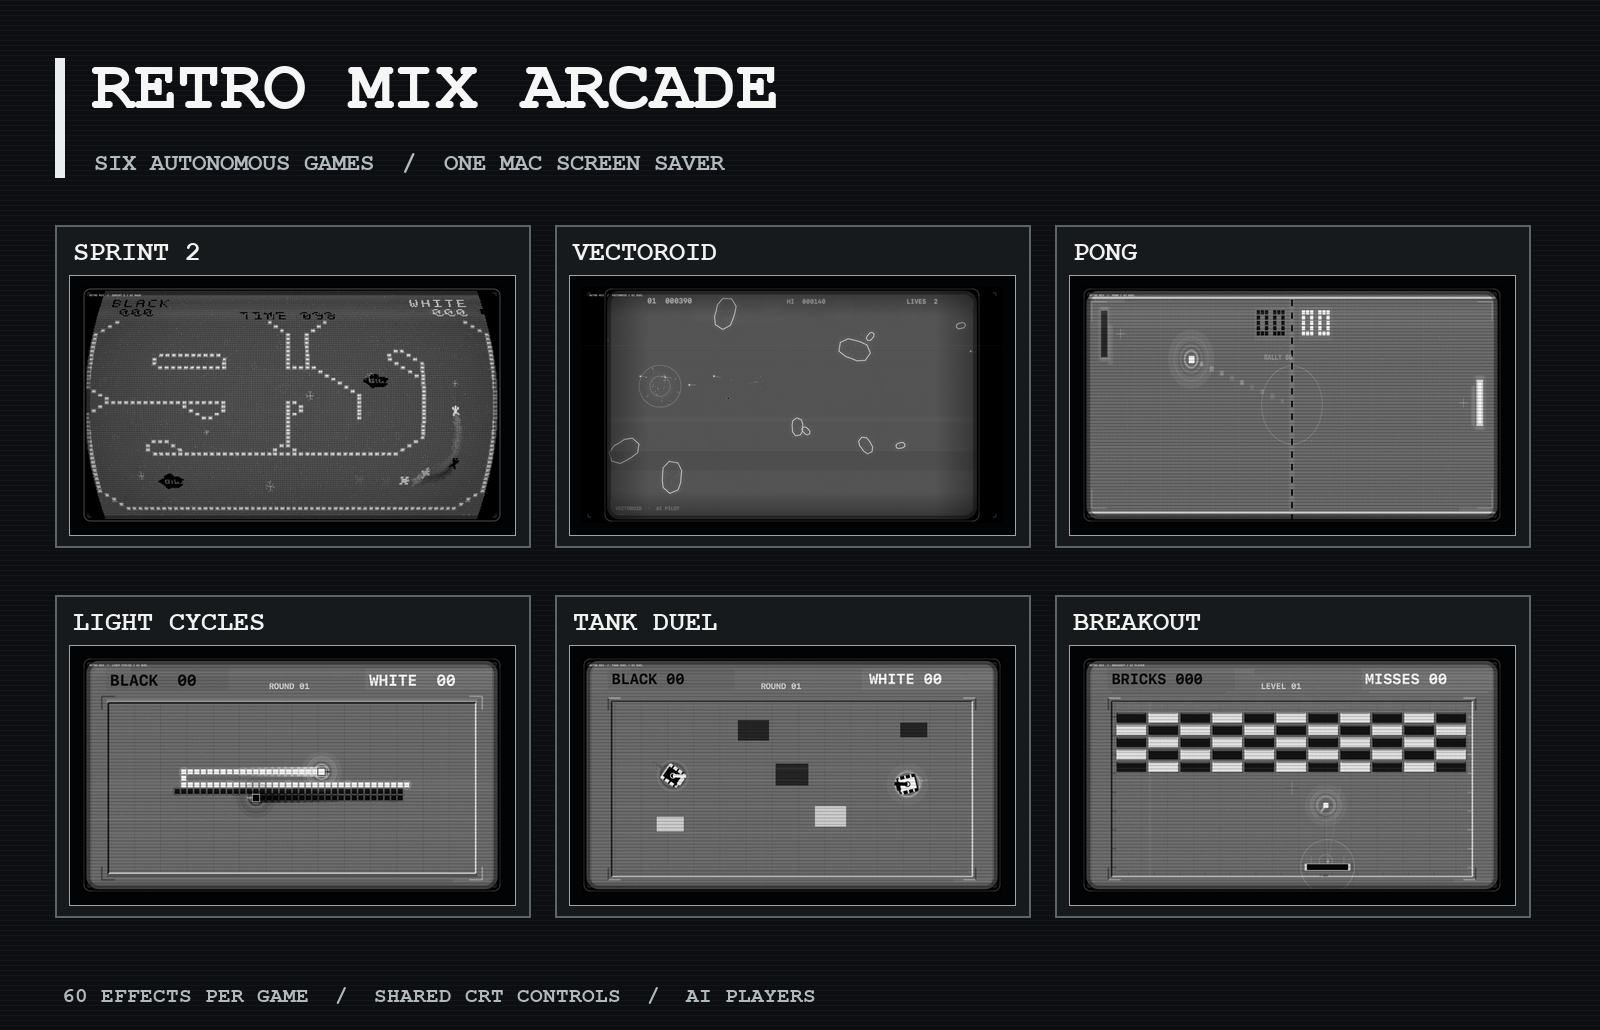
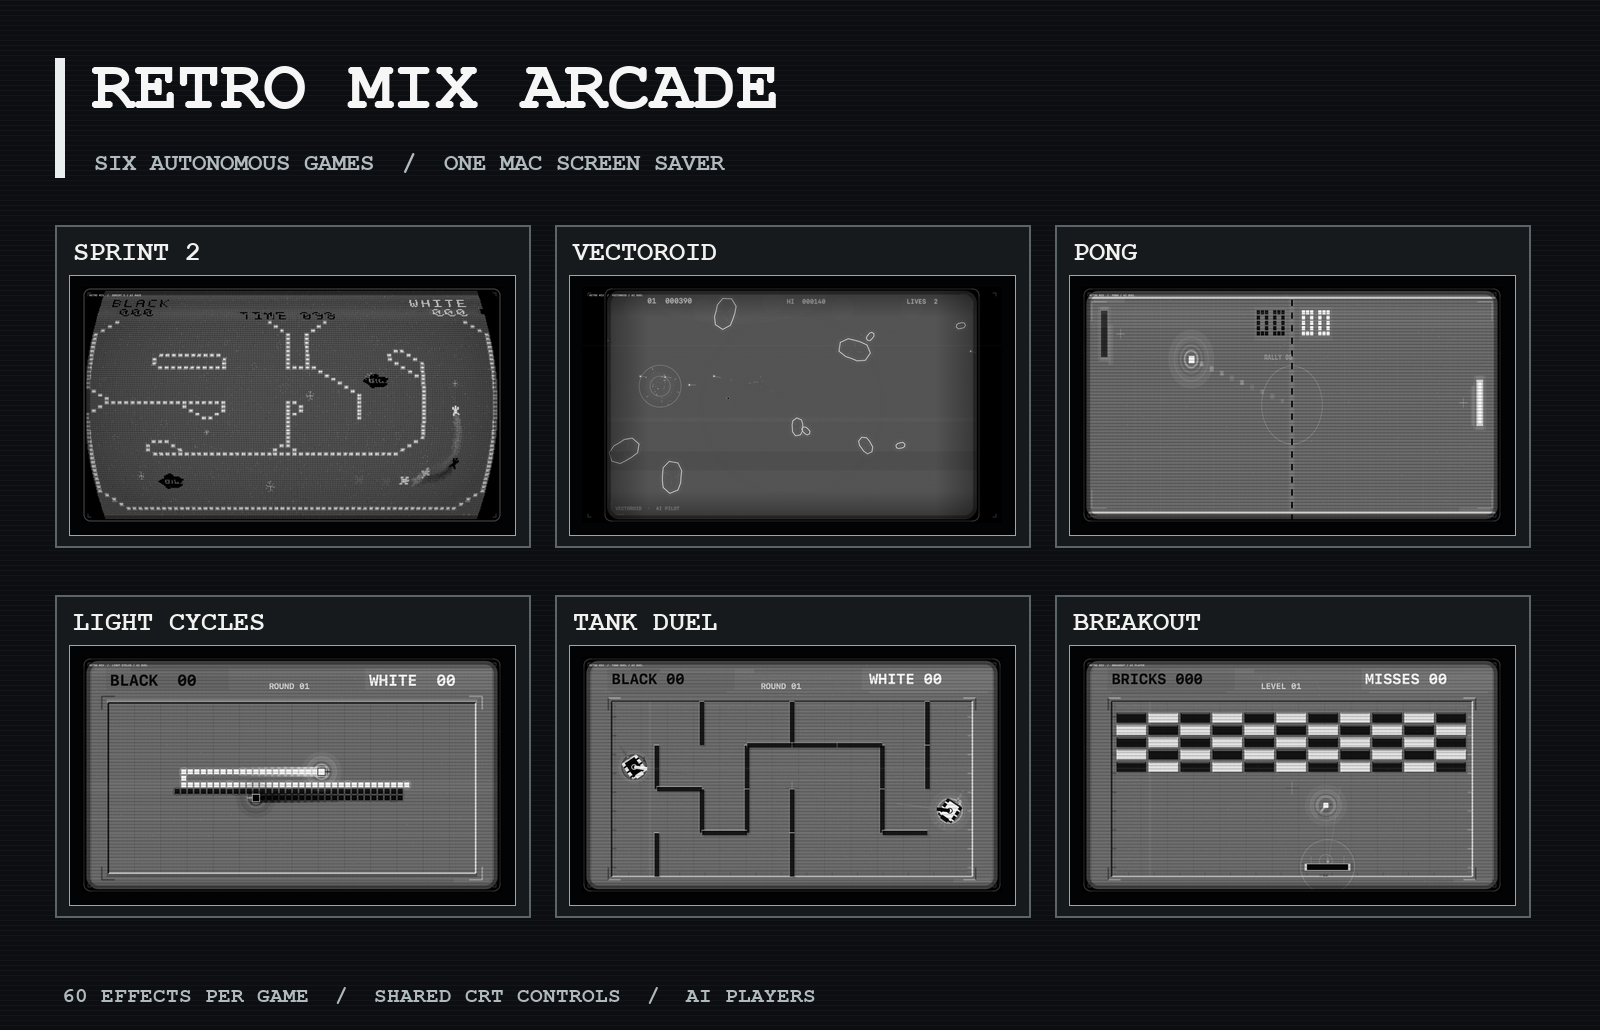
Document Tank Duel maze update

Changed region(s): [[0.375, 0.6835, 0.625, 0.8388]]

diff --git a/RELEASE_NOTES.md b/RELEASE_NOTES.md
@@ -1,16 +1,15 @@
-# Retro Mix Arcade 1.2.1
+# Retro Mix Arcade 1.2.2
 
-This update brings the other five games closer to Sprint 2's CRT presentation.
+Tank Duel now builds a fresh maze after every scored round.
 
-- Vectoroid, Pong, Light Cycles, Tank Duel, and Breakout now share Sprint's
-  rounded glass aperture, dark tube rim, and subtle lit edge.
-- Scanlines are stronger and more consistent across the games. Sprint's shared
-  scanline, glow, curvature, and intensity controls still govern the display.
-- The glass frame is kept in a static layer so it does not need to be rebuilt
-  for every animation frame.
+- Each arena is a randomized, connected network of corridors and walls. The
+  next arena is different from the previous one.
+- Both AI tanks navigate around walls while their chassis rotate into turns.
+- Shots collide with maze walls, including when they cross a thin wall between
+  animation frames.
+- The maze keeps the shared monochrome CRT look and game-specific effects.
 
-The six AI games, Mixed mode, game-specific effects, and existing JMR unlock
-codes are included.
+The six AI games, Mixed mode, and existing JMR unlock codes remain available.
 
 ## Installation
 

diff --git a/README.md b/README.md
@@ -29,8 +29,8 @@ Security → Open Anyway** as described in [Apple's instructions](https://suppor
   and other screen effects across all games.
 - Separate game-specific effect controls, including 60 Sprint effects.
 - A preview that follows the currently selected game.
-- Two AI tanks that rotate, steer, and fire in Tank Duel; an AI paddle that
-  predicts the ball in Breakout.
+- Two AI tanks that rotate, navigate randomized maze arenas, and fire in Tank
+  Duel; an AI paddle that predicts the ball in Breakout.
 - A moving JMR watermark that can be removed with a personal code from the
   [$5 unlock item](https://buymeacoffee.com/mikaelmoran/e/585964).
 
